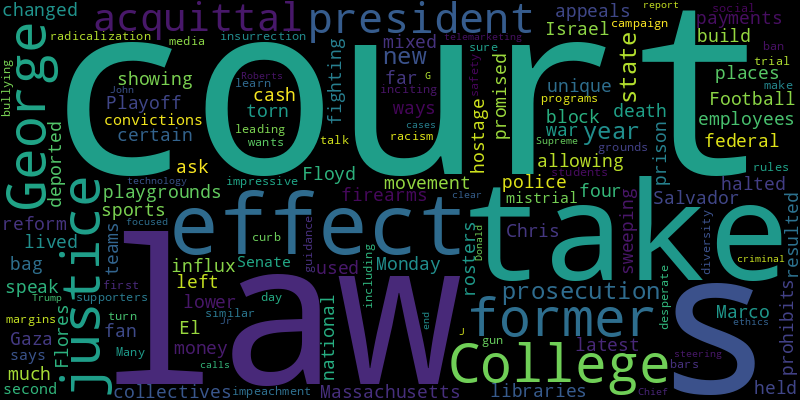
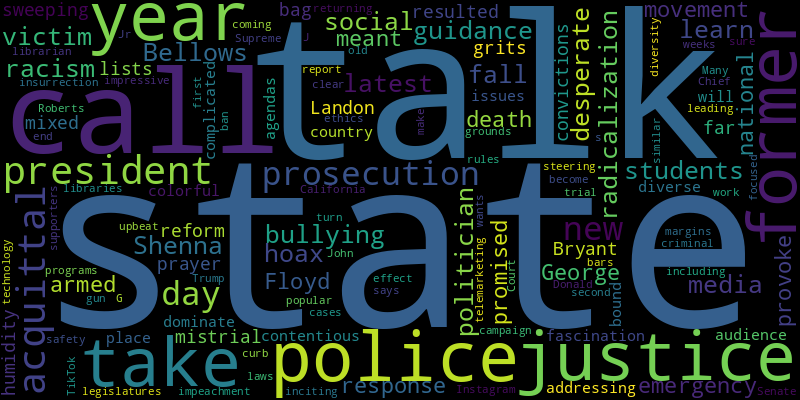
chore(bot): 😂 auto commit

diff --git a/README.md b/README.md
@@ -2,41 +2,41 @@
 Auto RSS New York Times and Generate Word Cloud
 
 ## New York Times Global News
-* In Chile’s oldest and most overcrowded prison, the inmates have found solace in the hundreds of stray cats.
-* As conventional forces struggle to break through defensive lines, both sides are increasingly turning to guerrilla tactics.
-* Margrethe, the longest-serving monarch in Europe, announced during her New Year’s speech that she would abdicate her throne in January. Her eldest son, Crown Prince Frederik, will succeed her.
-* The message of resilience offered by Ukraine’s leader, Volodymyr Zelensky’s message, contrasted sharply with that of President Vladimir V. Putin, who glossed over the war in an effort to project a sense of normality.
-* President Evariste Ndayishimiye also railed against Western governments that he said had conditioned providing aid on accepting gay rights. His remarks do not carry the force of law.
-* At a time when support for peace is at a low, conversations at Israel’s Hand in Hand schools about the Oct. 7 attack and the war in Gaza sound different than they do elsewhere.
-* The Central African nation’s vote drew accusations of fraud, but the elections commissioner declared that the incumbent, Felix Tshisekedi, had won.
-* Our correspondents ventured to some of the world’s most remote, and dangerous, locales to report stories that reveal a country’s culture and the human condition. Here are our favorites from the year.
-* Gleefully vulgar, the genre known as “Cinepanettone” once dominated Italy over the holidays. Italian revelers recently flocked to the alpine town where many of the films were set.
+* Officials ordered evacuations and said that some people could be trapped under collapsed buildings after a quake struck the western prefecture of Ishikawa.
 * Despite plummeting popularity, Prime Minister Benjamin Netanyahu of Israel has made clear he has no intention of resigning after the war in Gaza ends.
+* President Vladimir V. Putin of Russia says his country will continue targeting Ukrainian cities in retaliation for a deadly attack on the city of Belgorod on Saturday.
+* Speaking at his traditional New Year’s Day message, Francis highlighted the arrests and expulsion of clergy.
+* She’s 18. He’s 23. He sent her a one-sentence letter through his prison’s electronic mail system: “Will you marry me?” They wed in a small room in a Moscow jail.
+* There were reports of collapsed buildings and people being trapped underneath them. The quake disrupted electricity and phone service, and initially raised fears of a tsunami.
+* Followers of Afro-Brazilian religions have been displaced by New Year’s revelers. But they still find ways to make their offerings to the ocean.
+* More than 90 percent of Palestinians in the territory say they have regularly gone without food for a whole day, according to the United Nations.
+* Analysts say the announcement could signal a shift to the more limited and targeted war against Hamas that the United States has been urging.
+* At a time when support for peace is at a low, conversations at Israel’s Hand in Hand schools about the Oct. 7 attack and the war in Gaza sound different than they do elsewhere.
 
 ![Global](./global.png)
 ## New York Times United States News
-* A federal appeals court halted a lower court’s block on the law, which prohibits firearms in certain places such as playgrounds and libraries, allowing it to take effect on Monday.
-* The four teams in the College Football Playoff used cash payments from fan “collectives” in unique ways to build their rosters, showing how much an influx of money has changed college sports.
-* Chris George has lived in Israel and Gaza, where he was once held hostage. As his employees ask him to speak out on the latest war, he is torn.
-* After 13 years in prison in Massachusetts, Marco Flores is fighting being deported to El Salvador, which he left when he was 6.
+* When you talk to students about social media radicalization, racism and bullying, you learn how desperate they are for some guidance.
+* Shenna Bellows is the latest politician to fall victim to a hoax emergency call meant to provoke an armed police response.
 * Since the death of George Floyd, a national movement promised sweeping justice reform. So far, police prosecutions have resulted in a mixed bag of convictions, acquittals and a mistrial.
+* Landon Bryant talks about grits, prayer lists and humidity, addressing a diverse audience bound by its fascination with a colorful, complicated place.
+* Some of the most contentious issues in the country will dominate the agendas of state legislatures returning to work in the coming days and weeks.
+* The 33-year-old librarian from California has become popular on TikTok and Instagram with his upbeat take on libraries.
 * The former president says his acquittal by the Senate in his second impeachment trial, for inciting insurrection, bars any prosecution on similar grounds.
 * The former president is leading by impressive margins in the state, but his campaign wants to make sure his supporters turn out.
-* When you talk to students about social media radicalization, racism and bullying, you learn how desperate they are for some guidance.
 * Many state laws take effect on the first day of 2024, including new rules on gun safety, a ban on diversity programs and a curb on telemarketing calls.
 * In his year-end report, Chief Justice John G. Roberts Jr. focused on the new technology while steering clear of Supreme Court ethics and Donald J. Trump’s criminal cases.
 
 ![US](./usnews.png)
 ## New York Times Asia News
+* The prosecution accused him of colluding with U.S. officials to undermine Hong Kong’s interests, citing private messages, meetings and social media posts.
+* Japan Airlines said all 367 passengers and 12 crew members had evacuated the jet. Five crew members in a Coast Guard plane that reportedly collided with the jet were unaccounted for.
+* The authorities continued to look for people buried in the rubble of collapsed and burned buildings in the coastal epicenter of the disaster.
+* Long-term investment in India by businesses is stagnant, and foreign money is falling, even as the government is driving growth with infrastructure spending.
+* Lee Jae-myung, who leads the Democratic Party, was attacked by a 66-year-old man in the city of Busan, the police said. Mr. Lee was flown to Seoul for treatment.
+* Plus New Year’s offerings to the sea in Brazil.
+* There were reports of collapsed buildings and people being trapped underneath them. The quake disrupted electricity and phone service, and initially raised fears of a tsunami.
+* Sales by BYD, the country’s dominant automaker, topped 3 million last year, including 1.6 million fully battery-powered cars. It’s a sign of China’s rapid growth in EVs.
+* As another major quake struck Japan, the country was still reckoning with the nuclear crisis triggered by the 8.9-magnitude earthquake and a tsunami of 13 years ago.
 * Catch a mountain trout on a frozen South Korean river, witness a fiery pelting of devotees in Taiwan or find your cold-weather bliss in a Japanese snow maze.
-* National security employees with ties to Asia say U.S. counterintelligence officers wrongly regard them as potential spies and ban them from jobs.
-* Plus the beloved cats of a Chilean prison.
-* Our correspondents ventured to some of the world’s most remote, and dangerous, locales to report stories that reveal a country’s culture and the human condition. Here are our favorites from the year.
-* Decades after independence, the Philippines lacks the kind of factory economy that has lifted up other Asian nations, tying millions to farm work.
-* In the groves of the Philippine island of Mindanao, people living in rural areas struggle to feed themselves in the same way as their ancestors.
-* The promotion of Adm. Dong Jun may calm uncertainty after the unexplained disappearance of the previous minister, Gen. Li Shangfu.
-* From a Nobel Peace Prize winner, to a mayor hunted by the Russians, to a poet whose muses are cats, our profiles featured people shaping the world around them, often under the radar.
-* One pilot changed the propeller angle instead of that of the wing flaps while trying to land a Yeti Airlines plane in January, a report said.
-* Investors worried about China’s economy shunned Hong Kong’s stock market, once one of the biggest and most important in the world.
 
 ![Asian](./asian.png)
